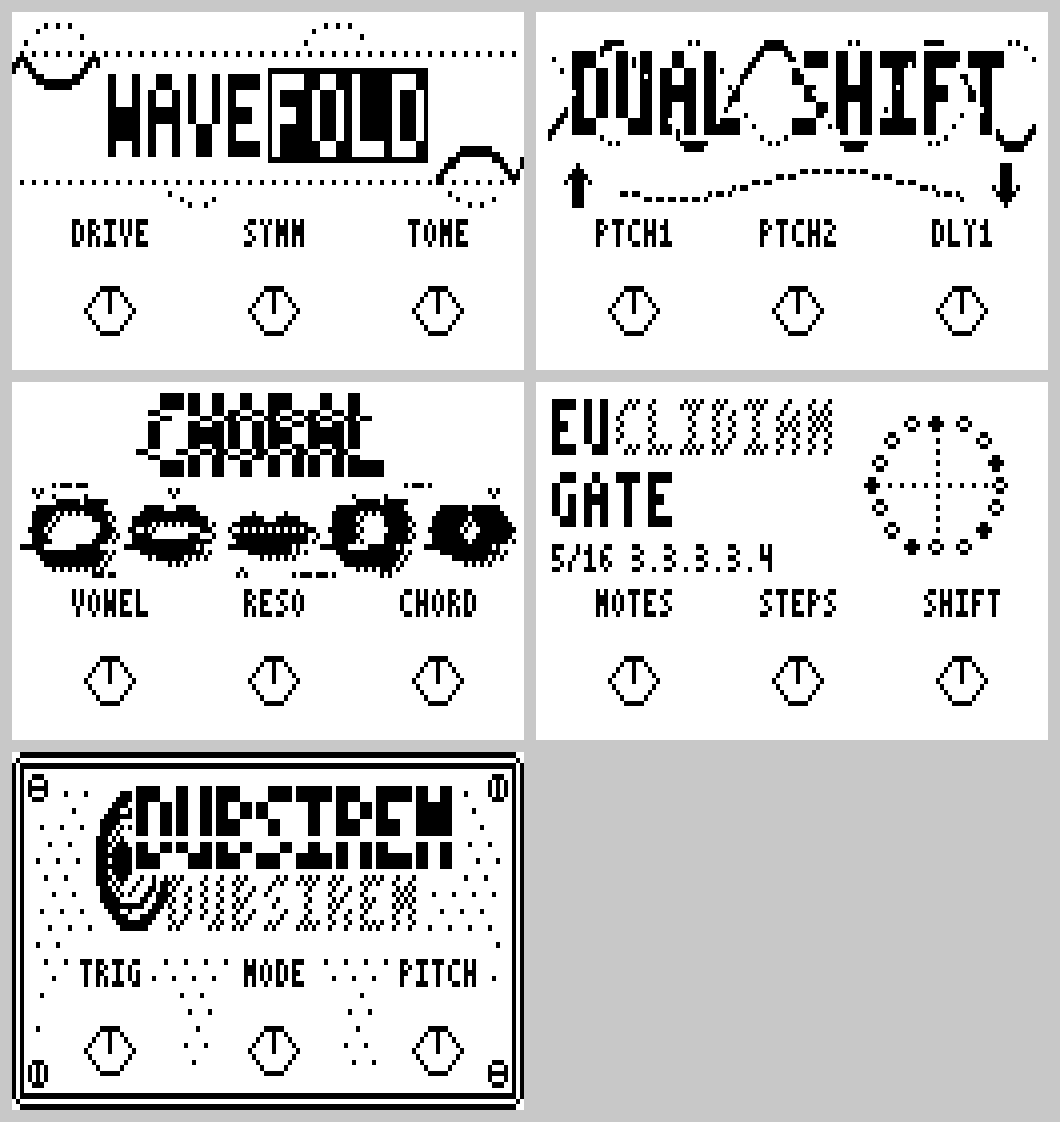
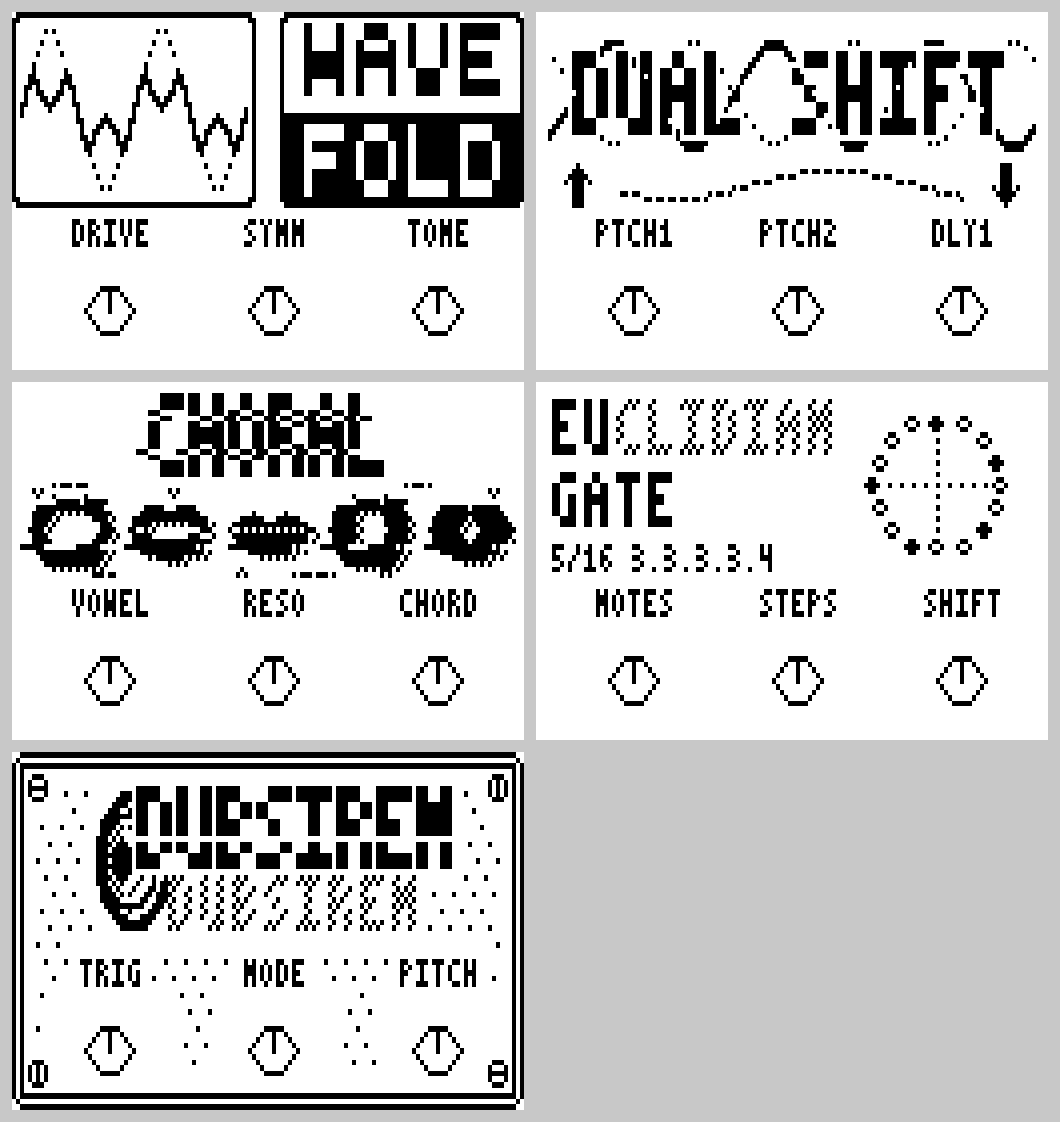
Rework the WaveFold cover
The art is now two mirrored rectangles that meet at the middle of the screen:
a box with a sine folded once at the limit (dots show the cut-off peaks), and
WAVE / FOLD stacked, WAVE black on white and FOLD white on a black block.
Letters use the pack's 2 px title strokes; corners are rounded like DubSiren's
box. Regenerated WaveFold.json, cover_preview.png and the WaveFold tile in
release/covers.png.

Claude-Session: https://claude.ai/code/session_01PwfreCeRjsW4i1Dw7GxyaS

Changed region(s): [[0.0, 0.0, 0.4981, 0.1872]]

diff --git a/src/custom/wavefold/make_cover.py b/src/custom/wavefold/make_cover.py
@@ -1,14 +1,16 @@
 """Generate src/airwindows/common/covers/WaveFold.json (128x64 cover override).
 
-Concept: a clean title on top, and under it a sine wave that grows from left to
-right inside two dotted limit lines. Past the lines it does not clip, it FOLDS:
-the solid trace is reflected back inside while a dotted "ghost" shows where the
-wave would have gone, and a small spike marks every bounce. The title is small and sits on the wave, with a 1 px gap cleared around it.
+Concept: the art area is split into two equal rectangles that mirror each other
+around the middle of the screen. On the left, a box with two cycles of a sine
+folded once at the limit: each peak bends back down and leaves a small dip,
+while dots show where the plain sine would have gone. On the right, WAVE / FOLD
+stacked in a rectangle the same size as the box: WAVE black on white in the top
+half, FOLD white on a black block in the bottom half.
 
 Run from anywhere:  py src\\custom\\wavefold\\make_cover.py
 Also writes cover_preview.png next to this script (black on white, like the pedal's screen).
 """
-import json, math, random, sys
+import json, math, sys
 from pathlib import Path
 
 ROOT = Path(__file__).resolve().parents[3]        # src/custom/wavefold/make_cover.py -> repo root
@@ -19,130 +21,106 @@ import custom_covers as cc
 from custom_covers import _VSquash
 
 NAME = "WaveFold"
-TITLE = "WAVEFOLD"
 LABELS = ("DRIVE", "SYMM", "TONE")
-SCALE = 1                    # title letters: 3 x 5 px
-PITCH = 10                   # letter pitch
-LW = 8                       # letter width (the 6 px font stretched to 8)
-STRETCH = (0, 1, 2, 2, 3, 3, 4, 5)   # output column -> font column (stems stay 2 px, the middle widens)
-TITLE_X, TITLE_Y = 24, 11    # 79 px wide with the word gap, 15 tall: centred on the screen
-CY, LIM = 18, 11              # wave centre row, fold limit in pixels
-PERIOD = 69.7                # wave period in pixels
-WAVE_OFF = -6.4              # phase: a fold peak sits in the middle of each side window
-ART_BOTTOM = 35              # the art lives in rows 0..35, labels start at 37
-SEED = 11
+W, H = 128, 64
+ART_TOP, ART_BOTTOM = 0, 34  # the art lives in rows 0..34, labels start at 37
+RECT_W = 61                  # box x 0..60, gap 61..66, title x 67..127: mirrored around 63.5
+BOX_X0, BOX_X1 = 0, RECT_W - 1
+TXT_X0 = W - RECT_W
+COLS = (2, 6, 2)             # font column -> px: 2 px stems like the pack's other titles, 4 x 10 + 3 x 3 = 49
+ROWS = (3, 2, 3, 2, 3)       # font row -> px: letters 13 tall
+LGAP = 3
+TXT_IN = (RECT_W - (4 * sum(COLS) + 3 * LGAP)) // 2   # 6 px side margin inside the title rectangle
+SPLIT = (ART_TOP + ART_BOTTOM) // 2                   # row 17: WAVE in rows 0..16, FOLD block 18..34
+FRAME = True                 # outline the title rectangle like the wave box
+ROUND = True                 # clip the rectangles' corners, like DubSiren's box
+LIMIT = 0.55                 # fold limit, as a fraction of the sine's peak
+AMP = 14.0                   # sine peak in px
+PERIOD = (RECT_W - 5) / 2.0  # two full cycles inside the box
+
+
+def big_text(c, text, x, y, v=1):
+    for ch in text:
+        rows = Canvas._FONT[ch]
+        yy = y
+        for r, row in enumerate(rows):
+            xx = x
+            for k, bit in enumerate(row):
+                if bit == '1':
+                    for dy in range(ROWS[r]):
+                        for dx in range(COLS[k]):
+                            c.px(xx + dx, yy + dy, v)
+                xx += COLS[k]
+            yy += ROWS[r]
+        x += sum(COLS) + LGAP
+
+
+def line(c, x0, y0, x1, y1):
+    n = max(abs(x1 - x0), abs(y1 - y0), 1)
+    for i in range(n + 1):
+        c.px(round(x0 + (x1 - x0) * i / n), round(y0 + (y1 - y0) * i / n))
 
 
 def fold(v):
-    """Triangle fold, period 4: v for |v| <= 1, reflected beyond."""
-    u = (v * 0.25 + 0.25) % 1.0
-    return 1.0 - abs(4.0 * u - 2.0)
+    """Reflect at +-LIMIT, like a folder at low Drive."""
+    if v > LIMIT:
+        return 2 * LIMIT - v
+    if v < -LIMIT:
+        return -2 * LIMIT - v
+    return v
 
 
 def build():
-    rnd = random.Random(SEED)
-    W, H = 128, 64
-    title = Canvas()
-    title.draw_text(TITLE, 0, 0, scale=2, spacing=2)     # 6 x 10 letters, 8 px pitch
-    # stretch the 10 rows to 15 (rows 1, 3, 5, 7, 9 doubled) so the letters are tall
-    T = [[False] * W for _ in range(H)]
-    for k, srow in enumerate((0, 1, 1, 2, 3, 3, 4, 5, 5, 6, 7, 7, 8, 9, 9)):
-        for li in range(8):                      # each letter: 6 font columns stretched to LW
-            for ox in range(LW):
-                T[TITLE_Y + k][TITLE_X + li * PITCH + ox] = bool(title.pixels[srow][li * 8 + STRETCH[ox]])
-    for y in range(H):                           # 1 px extra gap before FOLD
-        for x in range(W - 1, TITLE_X + 4 * PITCH - 1, -1):
-            T[y][x] = T[y][x - 1]
-        T[y][TITLE_X + 4 * PITCH - 1] = False
-    C = [[False] * W for _ in range(H)]
+    c = Canvas()
+    c.rect(BOX_X0, ART_TOP, BOX_X1, ART_BOTTOM)
+    cy = (ART_TOP + ART_BOTTOM) / 2
+    x0, x1 = BOX_X0 + 2, BOX_X1 - 2
+    s = lambda x: math.sin(2 * math.pi * (x - x0) / PERIOD)
 
-    def put(x, y):
-        if 0 <= x < W and 0 <= y <= ART_BOTTOM:
-            C[y][x] = True
-
-    S = [[False] * W for _ in range(H)]          # the solid (folded) trace, merged into C later
-    def puts(x, y):
-        if 0 <= x < W and 0 <= y <= ART_BOTTOM:
-            S[y][x] = True
-
-    A = 1.5                                    # drive: peaks reach 1.6 x the fold limit
-    def raw(x):
-        return A * math.sin(2 * math.pi * (x - WAVE_OFF) / PERIOD)
-    def ypix(v):
-        return CY - LIM * v
-
-    # fold limit lines, dotted: one dot every 3 px, the same spacing as the ghost below
-    for x in range(2, W, 3):                   # dots at 2, 5 .. 125: the same margin at both ends
-        put(x, CY - LIM)
-        put(x, CY + LIM + 1)
-    # unfolded sine, the part the fold cuts off: a dotted ghost with the dots spaced evenly
-    # ALONG the curve (every 3 px of path), so slopes and tops look as regular as the flats
-    run = 0.0
-    px_, py_ = None, None
-    for i in range(0, W * 8 + 1):
+    # ghost: the part of the sine the fold removed, a dot every 2 px along the curve
+    run, p = 2.0, None
+    for i in range(x0 * 8, x1 * 8 + 1):
         x = i / 8.0
-        v = raw(x)
-        if abs(v) <= 1.0:
-            px_ = None
-            run = 3.0                          # a dot right where the wave leaves the limit
+        v = s(x)
+        if abs(v) <= LIMIT + 0.04:
+            p, run = None, 2.0
             continue
-        xx, yy = x, ypix(v)
-        if px_ is not None:
-            run += math.hypot(xx - px_, yy - py_)
-        px_, py_ = xx, yy
-        if run >= 3.0:
-            gx, gy = int(round(xx)), int(round(yy))
-            # never touch another dot (the limit line's, or the one before): a lone dot
-            # reads as a dot, two touching ones read as a smudge
-            if any(0 <= gy + dy < H and 0 <= gx + dx < W and C[gy + dy][gx + dx]
-                   for dy in (-1, 0, 1) for dx in (-1, 0, 1)):
-                continue
-            put(gx, gy)
+        y = cy - AMP * v
+        if p:
+            run += math.hypot(x - p[0], y - p[1])
+        p = (x, y)
+        if run >= 2.0:
+            c.px(round(x), round(y))
             run = 0.0
-    # folded sine: solid, 2 px thick, no gaps
-    prev = None
-    for x in range(0, W):
-        y = int(round(ypix(fold(raw(x)))))
-        puts(x, y)
-        if prev is None or abs(y - prev) <= 1:
-            puts(x, y + 1)                       # slightly thicker on the flatter parts
-        if prev is not None and abs(y - prev) > 1:
-            lo, hi = min(y, prev), max(y, prev)
-            for yy in range(lo + 1, hi):
-                puts(x if yy >= (lo + hi) / 2 else x - 1, yy)
-        prev = y
-    # the solid trace is dropped behind the title: only slivers of it showed there
-    for yy in range(H):
-        for xx in range(W):
-            if S[yy][xx] and not (TITLE_X - 2 <= xx <= TITLE_X + 7 * PITCH + LW + 3):
-                C[yy][xx] = True
 
-    # title interplay: clear a 1 px halo around the letters, then draw them.
-    # WAVE is drawn normally; FOLD is inverted (solid block, letters knocked out).
-    FX0 = TITLE_X + 4 * PITCH             # block left edge (1 px before the F)
-    FX1 = TITLE_X + 7 * PITCH + LW + 1             # block right edge (1 px after the D)
-    FY0, FY1 = TITLE_Y - 1, TITLE_Y + 15       # one row above and below the letters
-    for y in range(H):
-        for x in range(W):
-            near = any(T[y + dy][x + dx]
-                       for dy in (-1, 0, 1) for dx in (-1, 0, 1)
-                       if 0 <= y + dy < H and 0 <= x + dx < W)
-            inblock = TITLE_X - 2 <= x <= FX1 + 1 and FY0 - 1 <= y <= FY1 + 1
-            if (near or inblock) and y <= ART_BOTTOM:
-                C[y][x] = False
-    for y in range(H):
-        for x in range(W):
-            if FX0 <= x <= FX1 and FY0 <= y <= FY1:
-                C[y][x] = not T[y][x]
-            elif T[y][x]:
-                C[y][x] = True
+    # folded sine: solid, 2 px thick
+    for off in (0, 1):
+        prev = None
+        for x in range(x0, x1 + 1):
+            y = round(cy - AMP * fold(s(x))) + off
+            if prev is None:
+                c.px(x, y)
+            else:
+                line(c, x - 1, prev, x, y)
+            prev = y
+
+    # title: WAVE black on white in the top half, FOLD knocked out of a black block in
+    # the bottom half; the letters sit at the same distance from each half's edges
+    ty = (SPLIT - ART_TOP - sum(ROWS)) // 2
+    if FRAME:
+        c.rect(TXT_X0, ART_TOP, W - 1, ART_BOTTOM)
+    for y in range(SPLIT + 1, ART_BOTTOM + 1):
+        c.hline(TXT_X0, W - 1, y)
+    big_text(c, "WAVE", TXT_X0 + TXT_IN, ART_TOP + ty)
+    big_text(c, "FOLD", TXT_X0 + TXT_IN, SPLIT + 1 + ty, v=0)
+    if ROUND:
+        for x0, x1 in ((BOX_X0, BOX_X1), (TXT_X0, W - 1)):
+            for x, y in ((x0, ART_TOP), (x1, ART_TOP), (x0, ART_BOTTOM), (x1, ART_BOTTOM)):
+                c.px(x, y, 0)
+            c.px(x0 + 1, ART_TOP + 1); c.px(x1 - 1, ART_TOP + 1)
+            c.px(x0 + 1, ART_BOTTOM - 1); c.px(x1 - 1, ART_BOTTOM - 1)
 
     # --- labels and dials under the firmware value boxes (page 1 knobs) --------
-    c = Canvas()
-    for y in range(H):
-        for x in range(W):
-            if C[y][x]:
-                c.px(x, y)
     for (kid, kx, ky), label in zip(cc.knob_layout(3), LABELS):
         cx = kx + 10
         w = len(label) * 4 - 1
@@ -152,8 +130,7 @@ def build():
         sq = _VSquash(c, cyd)
         sq.circle(cx, cyd, 6)
         sq.vline(cx, cyd - 5, cyd)
-    pass                                      # no bottom rule
-    return c
+    return c                                  # no bottom rule
 
 
 if __name__ == "__main__":
